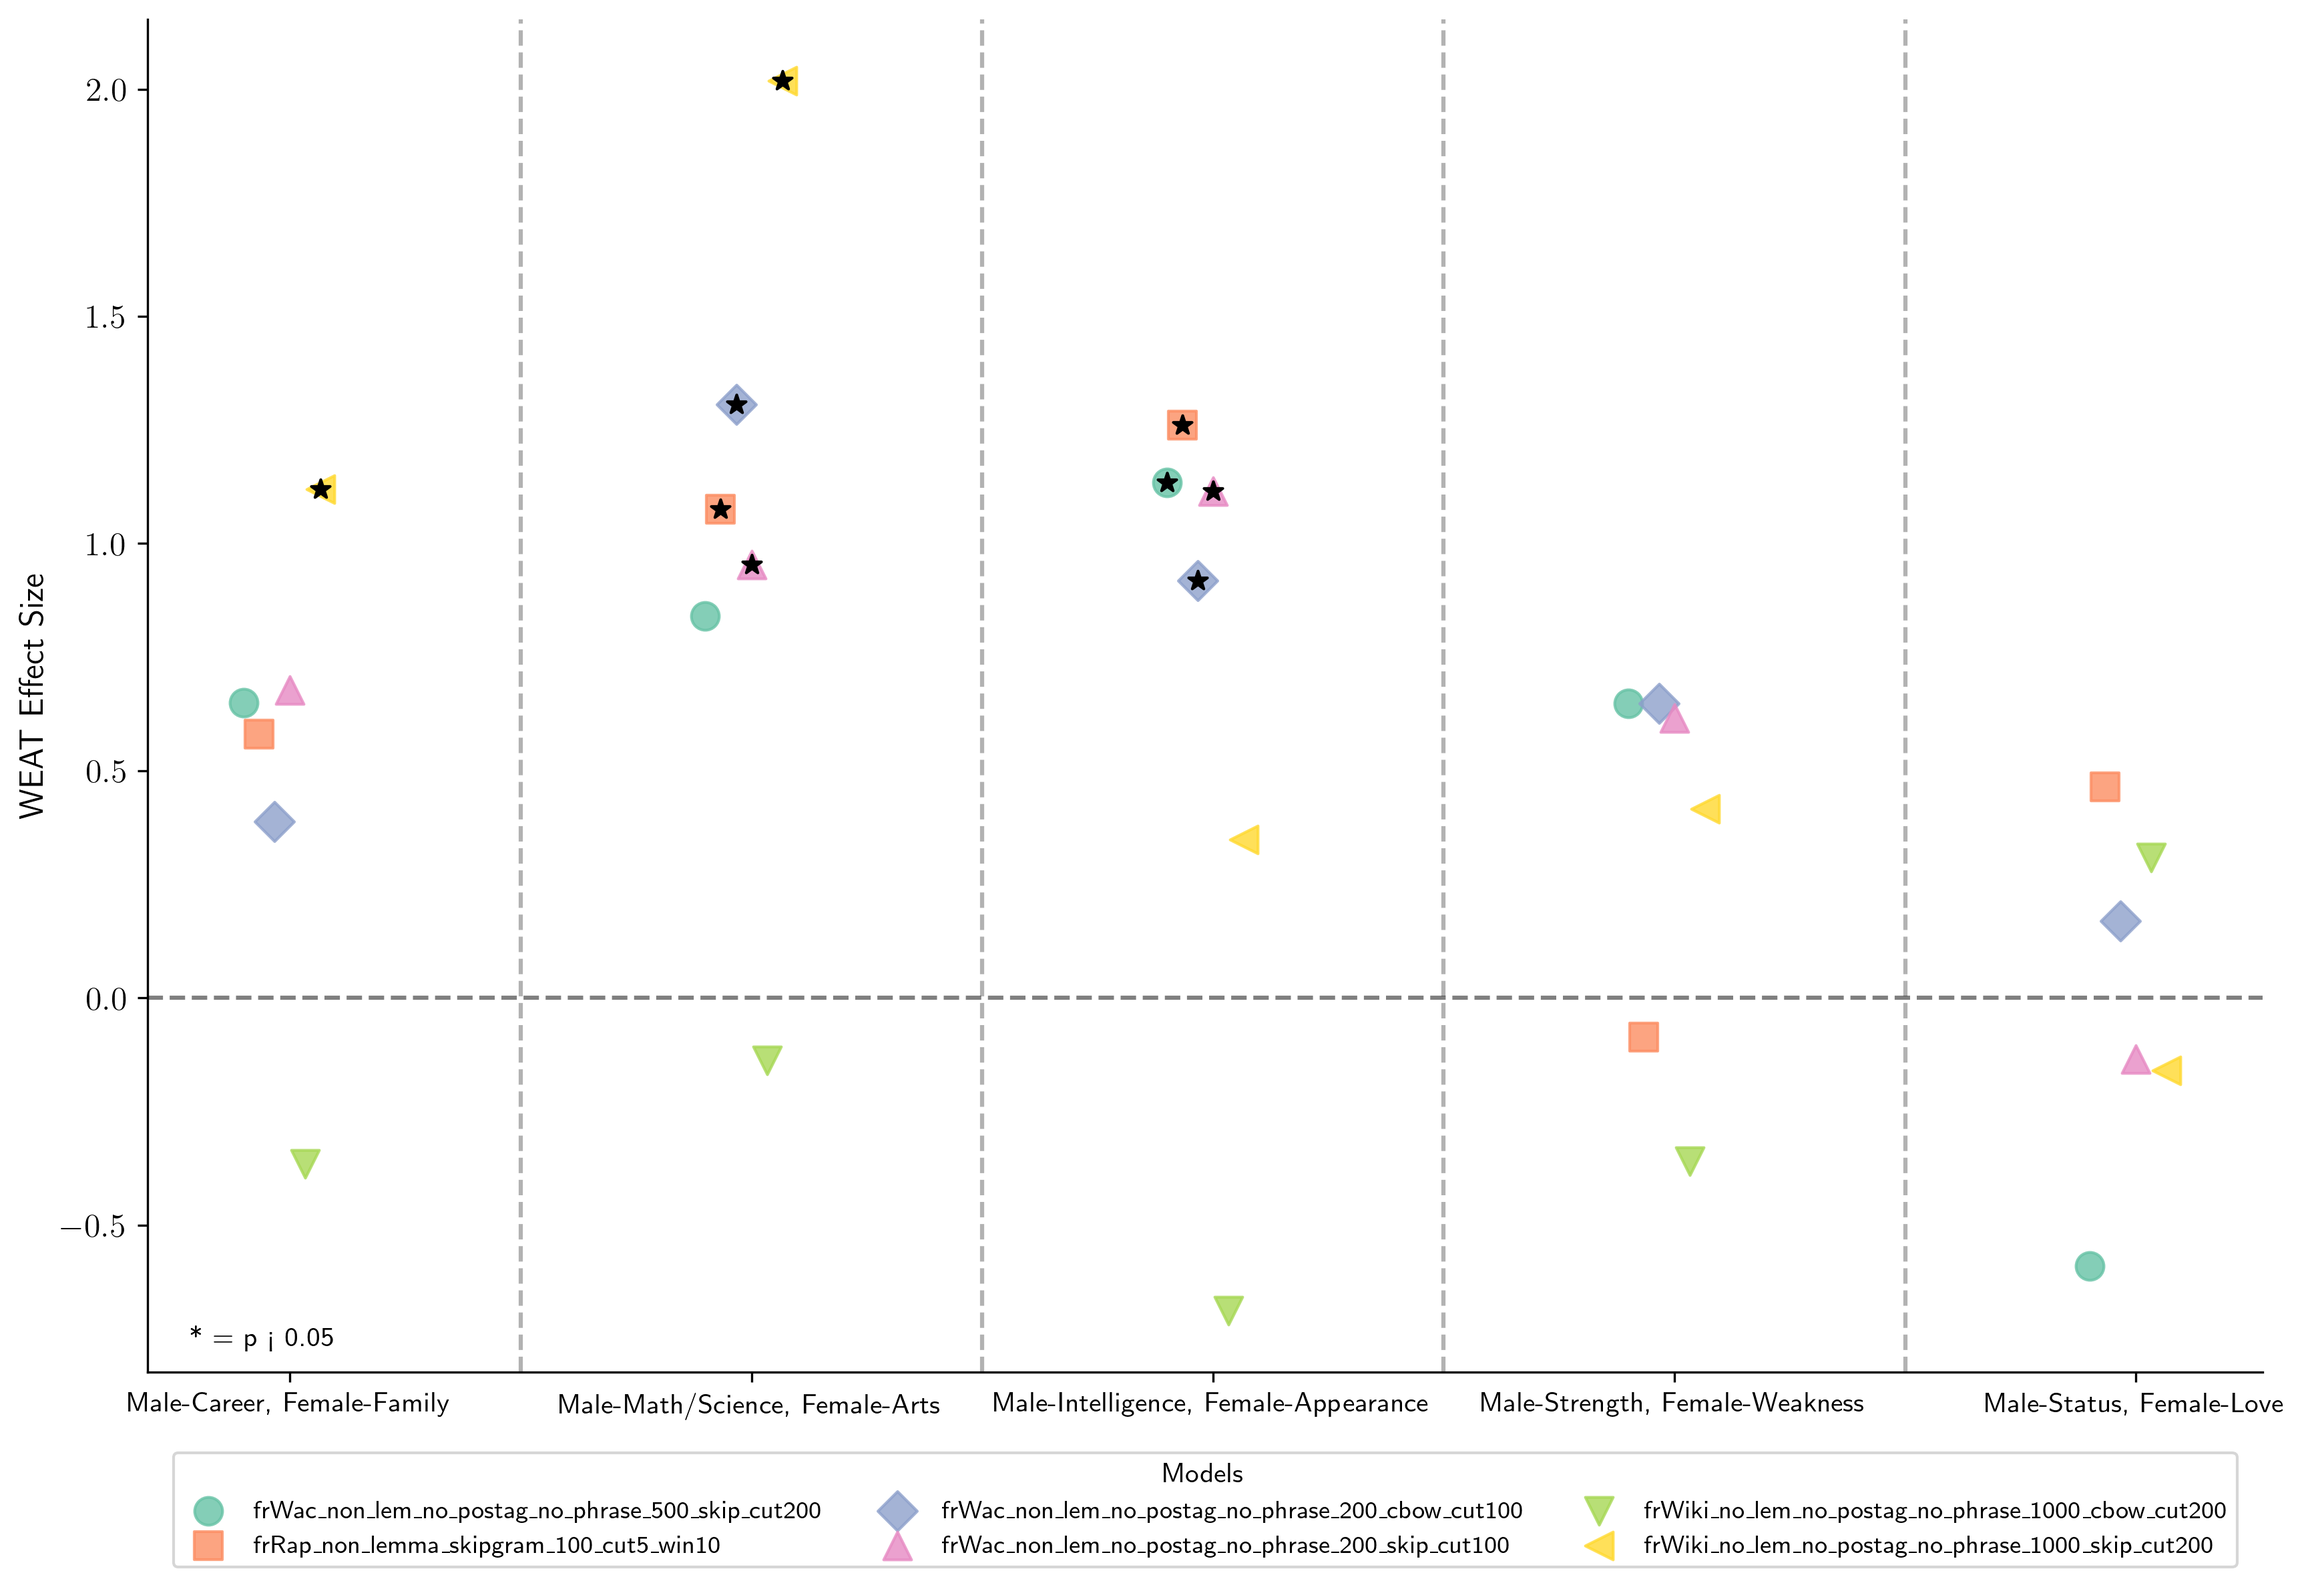
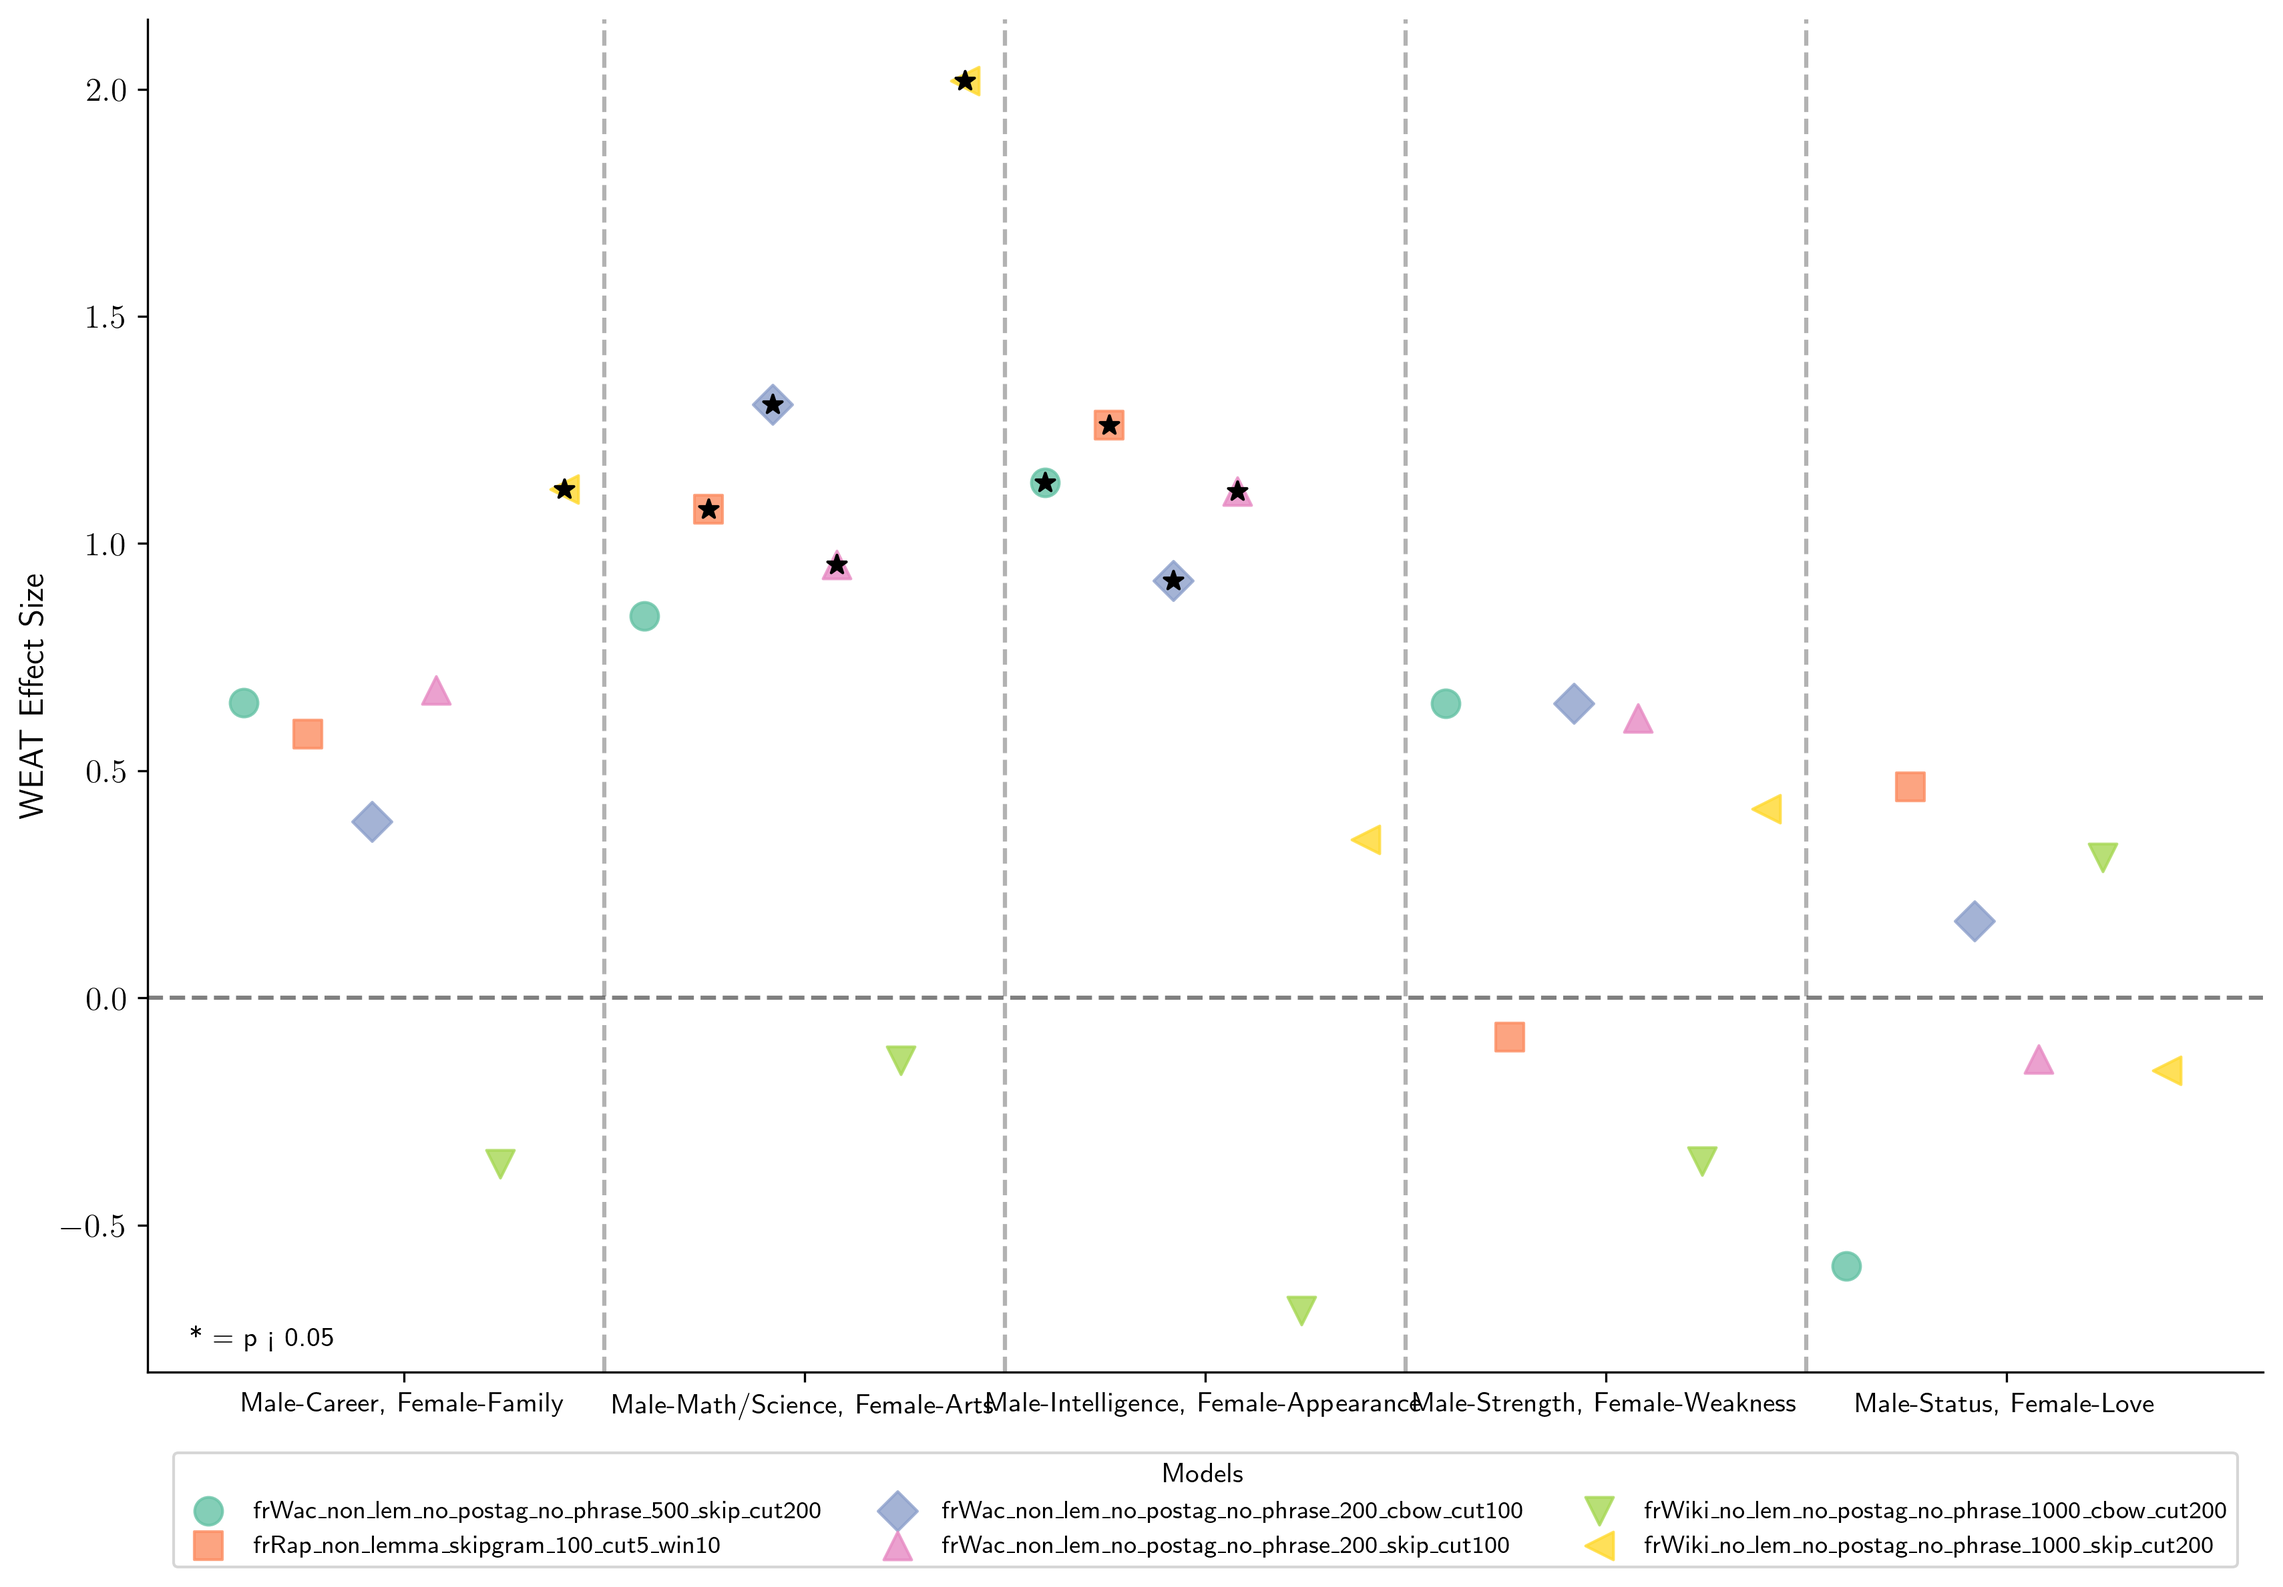
improved WEAT vis

diff --git a/utils/visualisations_helpers.py b/utils/visualisations_helpers.py
@@ -337,15 +337,6 @@ def plot_gender_bias(df, figsize=(12, 8), marker_size=100, p_threshold=0.05,
     # Get bias categories
     bias_categories = raw_df.columns.tolist()
     
-    # Create category name mapping for x-axis labels
-    category_names = {
-        'B1_career_family': 'Career-Family',
-        'B2_mathsci_arts': 'Math/Science-Arts',
-        'B3_intel_appearance': 'Intelligence-Appearance', 
-        'B4_strength_weakness': 'Strength-Weakness',
-        'B5_status_love': 'Status-Love'
-    }
-    
     # Create a more detailed mapping for plot title
     category_descriptions = {
         'B1_career_family': 'Male-Career, Female-Family',
@@ -392,11 +383,35 @@ def plot_gender_bias(df, figsize=(12, 8), marker_size=100, p_threshold=0.05,
     # Set up markers for different models
     markers = ['o', 's', 'D', '^', 'v', '<', '>', 'p', '*', 'h', 'H', '+', 'x', 'X', 'd']
     marker_map = {model: markers[i % len(markers)] for i, model in enumerate(model_names)}
+
+    # First create a mapping to uniformly distribute points across each column
+    position_map = {}
     
-    # Jitter to avoid overlap
-    jitter_amount = 0.1
+    # For each category, calculate positions
+    for category in bias_categories:
+        # Get all models that have data for this category
+        models_in_category = []
+        for model in model_names:
+            model_data = plot_df[(plot_df['Model'] == model) & (plot_df['Category'] == category)]
+            if not model_data.empty:
+                models_in_category.append(model)
+        
+        # Calculate positions spread across the column
+        column_width = 0.8  # Width of the spread within column
+        n_models = len(models_in_category)
+        
+        for i, model in enumerate(models_in_category):
+            # If only one model, center it
+            if n_models == 1:
+                offset = 0
+            # Otherwise, distribute evenly
+            else:
+                offset = column_width * (i / (n_models - 1) - 0.5)
+            
+            # Store the position
+            position_map[(category, model)] = offset
     
-    # Plot each data point
+    # Now plot using the pre-calculated positions
     for model in model_names:
         model_data = plot_df[plot_df['Model'] == model]
         
@@ -405,10 +420,15 @@ def plot_gender_bias(df, figsize=(12, 8), marker_size=100, p_threshold=0.05,
             effect_size = row['Effect_Size']
             significant = row['Significant']
             
-            # Add jitter to x-position based on model
-            model_idx = model_names.index(model)
+            # Get the pre-calculated position offset
+            if (category, model) in position_map:
+                offset = position_map[(category, model)]
+            else:
+                offset = 0  # Fallback if no position calculated
+            
+            # Calculate final x-position
             x_pos = bias_categories.index(category) + 1
-            x_jitter = x_pos + jitter_amount * (model_idx - len(model_names)/2) / (len(model_names)/2)
+            x_jitter = x_pos + offset
             
             # Plot point - add label only once per model
             if category == model_data['Category'].iloc[0]:
